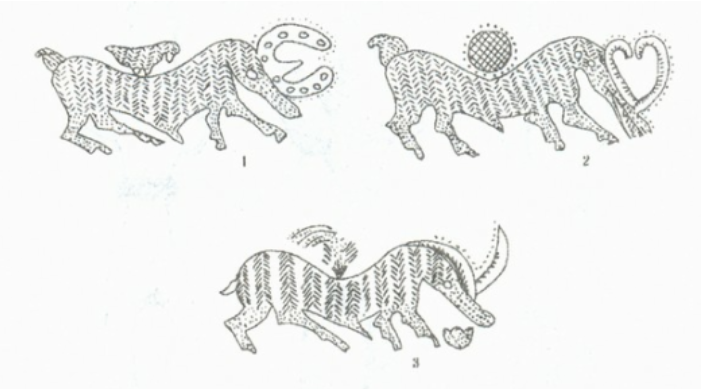
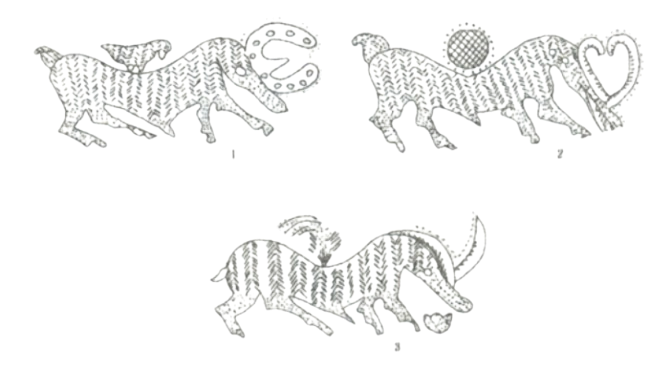
chore: symbol info

diff --git a/styles.css b/styles.css
@@ -1308,8 +1308,6 @@ body {
   max-width: 420px;
   max-height: 420px;
   object-fit: contain;
-  background-color: #FFFFFF;
-  border: 1px solid var(--border-color);
   filter: grayscale(100%) contrast(105%);
 }
 
